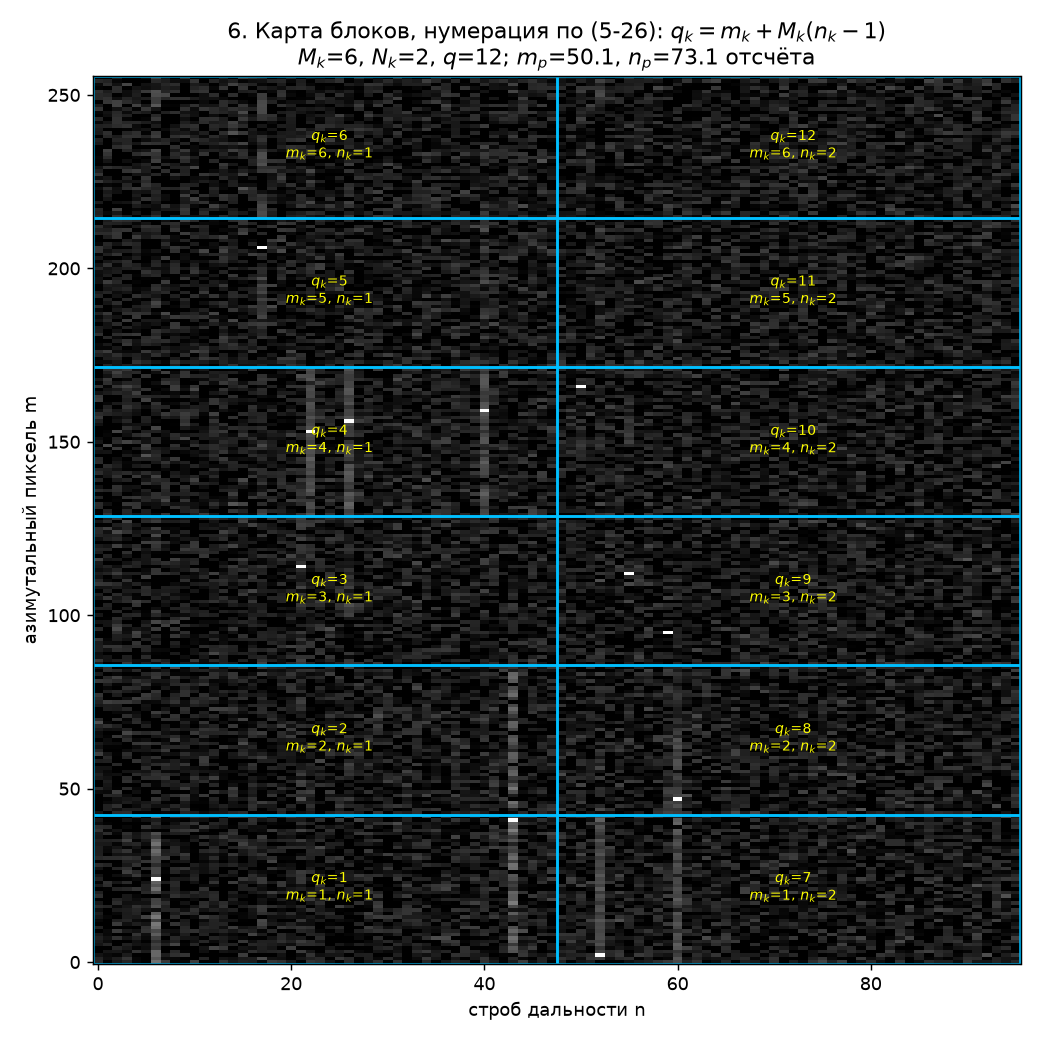
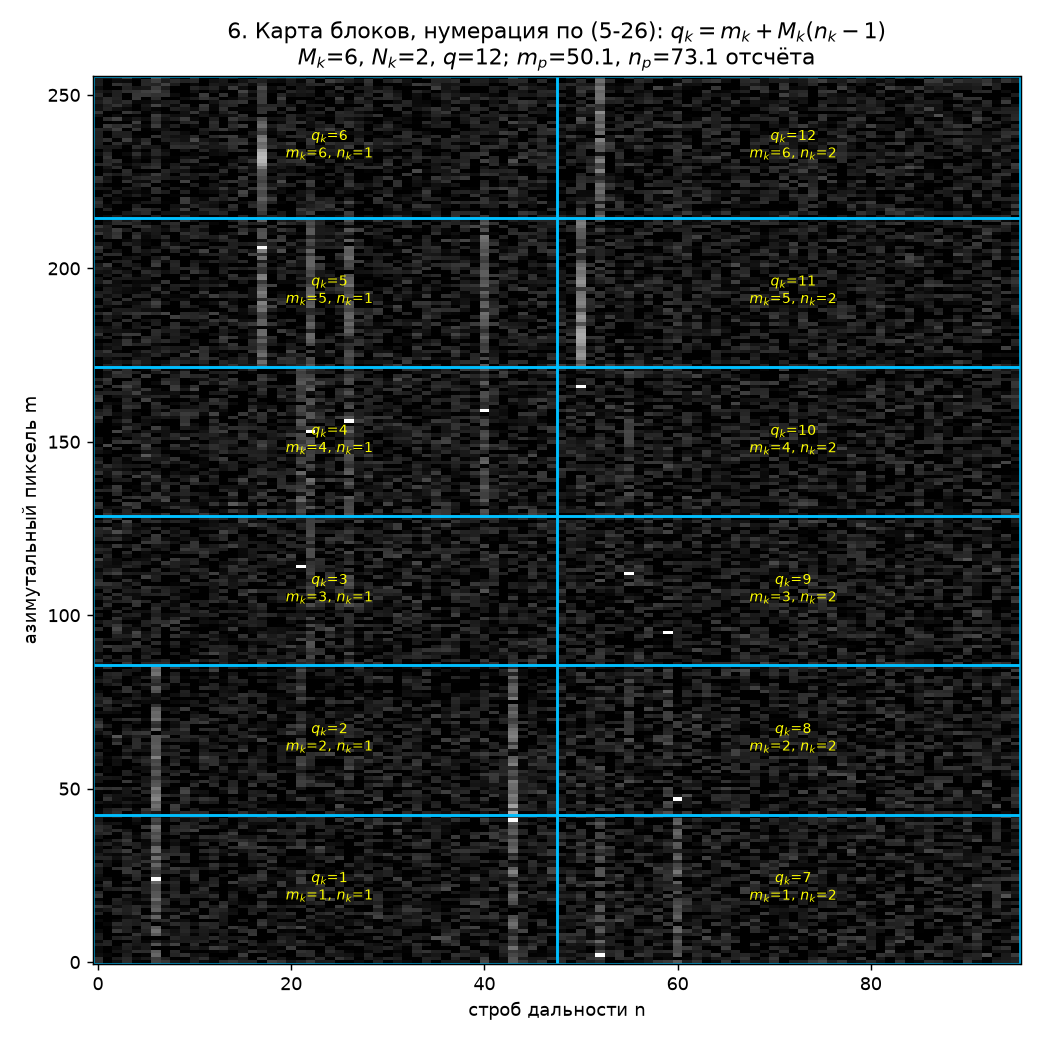
T-186: перехлёст даёт данные, но не голос в целевой функции
Указано владельцем, и он прав: перехлёст — это то, что в итоге
отбрасывается, поправка считается по сердцевине. У меня же энтропия
считалась по ВСЕМУ окну, значит фаза подгонялась и под соседскую землю,
где по (5-27) поправка ДРУГАЯ. Отсюда и вред, который я намерил.

Исправлено в stage_c_iterate: добавлена core_mask, и суммы по m в (5-5),
(5-14) и в первом члене (5-19) идут только по сердцевине. Нули ставятся
ДО преобразования, поэтому лишнего БПФ это не стоит — счётчик по-прежнему
показывает два на итерацию.

S_g (5-4) намеренно остаётся энергией всего окна: она не зависит от phi
по равенству Парсеваля, и на этом стоит вывод (5-13)/(5-19). Частичная
сумма от phi зависела бы, и вывод бы поехал.

Замер, изменчивый стенд, 3 сцены, ПОСЛЕ правки:

  перехлёст  нули   сошлось  остаток  контраст
    0.00     0.00    3.7/12   0.7333   33.74
    0.25     0.25    3.0/12   0.7373   32.45
    0.50     0.50    3.3/12   0.6766   33.63   взято
    0.50     1.00    4.0/12   0.7064   32.41
    1.00     1.00    3.3/12   0.7446   31.81

Вред от перехлёста исчез: до правки 0,5 давал контраст 31.27 против
34.32 у нарезки встык, теперь 33.63 против 33.74 — равны в пределах
0,3 %. Остаток фазы у 0,5 лучше на 8 %. Доли возвращены к 0,5/0,5, но
выигрыш скромный, и за большее его выдавать нельзя.

Предыдущее снижение до 0.25 лечило симптом, а не причину; отменено.

Claude-Session: https://claude.ai/code/session_0131t2cRSN4FHWoUZqJmH65Q

diff --git a/lab/mn_mea/stage_c_iterate.py b/lab/mn_mea/stage_c_iterate.py
@@ -164,7 +164,35 @@ def image_power(backend: Backend, g, floor: float):
     return P, backend.xp.log(P), fraction
 
 
-def entropy(backend: Backend, P, S_g: float) -> tuple[float, float]:
+def core_mask(backend: Backend, M: int, core: tuple[int, int] | None):
+    """Маска строк изображения, по которым считается ЦЕЛЕВАЯ функция.
+
+    Принимает бэкенд, число строк M и границы сердцевины (start, stop);
+    возвращает столбец (M, 1) из единиц внутри сердцевины и нулей вне её,
+    либо None, если сердцевина — всё изображение.
+
+    Зачем. Окно блока (решение №6) шире его плитки: перехлёст нужен, чтобы
+    в данные попали ХВОСТЫ расфокусированных целей сердцевины. Но поправка
+    у блока ОДНА, и подгонять её надо под свою землю, а не под соседскую:
+    у соседа по (5-27) поправка ДРУГАЯ. Значит перехлёст обязан давать
+    данные и не давать голоса в целевой функции.
+
+    Маска и есть этот запрет. Суммы по m в (5-5), (5-14) и в первом члене
+    (5-19) идут только по сердцевине; лишнего БПФ это не стоит — нули
+    ставятся до преобразования.
+
+    S_g (5-4) остаётся энергией ВСЕГО окна: она не зависит от phi по
+    равенству Парсеваля, и на этом стоит вывод (5-13)/(5-19). Частичная
+    сумма от phi зависела бы, и вывод бы поехал.
+    """
+    if core is None:
+        return None
+    mask = backend.xp.zeros((M, 1), dtype=backend.real_dtype)
+    mask[core[0] : core[1]] = 1.0
+    return mask
+
+
+def entropy(backend: Backend, P, S_g: float, mask=None) -> tuple[float, float]:
     """(5-5) ненормированная энтропия и (5-6) нормированная.
 
     Принимает бэкенд, мощность P (5-4 уже посчитана как S_g) и S_g;
@@ -177,11 +205,14 @@ def entropy(backend: Backend, P, S_g: float) -> tuple[float, float]:
     нормировки ПФ не зависит и потому сравнима между блоками, E_g — нет.
     Накопление по M N ячейкам идёт в двойной точности (§3 задания).
     """
-    E_g = -float(backend.sum_real(P * backend.xp.log(P)))
+    weighted = P * backend.xp.log(P)
+    if mask is not None:
+        weighted = weighted * mask
+    E_g = -float(backend.sum_real(weighted))
     return E_g, E_g / S_g + math.log(S_g)
 
 
-def auxiliary_array(backend: Backend, ln_P, g):
+def auxiliary_array(backend: Backend, ln_P, g, mask=None):
     """(5-14), шаг 4 §5.8: G(k,n) = sum_m [1 + ln |g|^2] g(m,n) e^{+j 2 pi k m / M}.
 
     Принимает бэкенд, ln P и изображение g; возвращает массив G(k,n).
@@ -189,6 +220,8 @@ def auxiliary_array(backend: Backend, ln_P, g):
     Стоит ОДНО азимутальное БПФ (ядро «+»). Это второе и последнее БПФ итерации.
     """
     L = 1.0 + ln_P  # вещественный множитель
+    if mask is not None:  # перехлёст в целевую функцию не входит, см. core_mask
+        L = L * mask
     return backend.fft_kernel_plus(L.astype(g.dtype) * g)  # БПФ №2
 
 
@@ -221,7 +254,7 @@ def first_derivative(backend: Backend, W):
     return 2.0 * backend.sum_real(W.imag, axis=1)
 
 
-def second_derivative(backend: Backend, W, h_abs2, ln_P):
+def second_derivative(backend: Backend, W, h_abs2, ln_P, mask=None):
     """(5-19), шаг 7 §5.8: вторая производная энтропии по phi_k.
 
         E''_k = -2 sum_m sum_n (2 + ln|g|^2) |h(k,n)|^2
@@ -240,7 +273,10 @@ def second_derivative(backend: Backend, W, h_abs2, ln_P):
     получается из (5-15) при замене Im^2[g* u] на среднее (1/2)|g|^2 |h|^2,
     то есть (5-19) — это усреднённый, а не точный гессиан.
     """
-    W_n = backend.sum_real(2.0 + ln_P, axis=0)  # длины N
+    summand = 2.0 + ln_P
+    if mask is not None:  # тот же запрет для перехлёста, см. core_mask
+        summand = summand * mask
+    W_n = backend.sum_real(summand, axis=0)  # длины N
     # РАСХОЖДЕНИЕ (5-19): в книге напечатано иначе, см. §8 — коэффициент
     # (2 + ln|g|^2) дан без вывода; он получается из (5-15) при замене
     # Im^2[g* u] на среднее (1/2)|g|^2|h|^2, то есть гессиан усреднённый.
@@ -332,6 +368,7 @@ def iterate_block(
     floor_relative: float = POWER_FLOOR_RELATIVE,
     curvature_policy: str = "freeze",
     step_max: float = STEP_MAX_RAD,
+    core: tuple[int, int] | None = None,
 ) -> BlockIterations:
     """Цикл §5.8 целиком: девять шагов, два азимутальных БПФ размера M на
     итерацию и ничего больше.
@@ -349,6 +386,7 @@ def iterate_block(
     phi_initial_out = backend.to_numpy(phi).copy()
 
     M, N = h.shape
+    mask = core_mask(backend, M, core)  # решение №6: перехлёст без права голоса
     h_abs2 = backend.xp.abs(h) ** 2  # нужен (5-19) на каждой итерации, считаем один раз
     S_g = total_energy(backend, h_abs2, M)  # (5-4)
     floor = power_floor(S_g, M, N, floor_relative)  # решение реализации №1
@@ -368,11 +406,11 @@ def iterate_block(
 
         h_phi, g = image_from_phase(backend, h, phi)  # шаги 1-2, (5-3)
         P, ln_P, floored_fraction = image_power(backend, g, floor)  # шаг 3
-        E_g, S = entropy(backend, P, S_g)  # (5-5),(5-6) — для отчёта
-        G = auxiliary_array(backend, ln_P, g)  # шаг 4, (5-14)
+        E_g, S = entropy(backend, P, S_g, mask)  # (5-5),(5-6) — для отчёта
+        G = auxiliary_array(backend, ln_P, g, mask)  # шаг 4, (5-14)
         W = w_product(backend, G, h_phi)  # шаг 5 — один раз
         E_1 = first_derivative(backend, W)  # шаг 6, (5-13)
-        E_2 = second_derivative(backend, W, h_abs2, ln_P)  # шаг 7, (5-19)
+        E_2 = second_derivative(backend, W, h_abs2, ln_P, mask)  # шаг 7, (5-19)
 
         try:
             phi_new, n_frozen, n_clipped = newton_update(  # шаг 8, (5-8)

diff --git a/lab/mn_mea/stage_a_blocks.py b/lab/mn_mea/stage_a_blocks.py
@@ -54,24 +54,35 @@ class Geometry:
 #: Расфокусированная цель размазана шире своей плитки, и без перехлёста
 #: хвосты теряются при вырезании.
 #:
-#: ВНИМАНИЕ, история этого числа важнее самого числа. Сначала стояло 0,5 —
-#: подобрано замером на стенде, где вносимая ошибка была ОДНА на всю сцену.
-#: Такой стенд цену перехлёста показать не мог в принципе: перехлёст тем и
-#: плох, что захватывает землю, где поправка ДРУГАЯ, а другой поправки там
-#: не было. На изменчивом стенде (validate.experiment_space_variant_run)
-#: 0,5 оказался заметно хуже: контраст 31,27 против 34,32 у книжной нарезки
-#: встык. Взято 0,25 — лучший остаток фазы при контрасте в пределах 1,2 %
-#: от наилучшего.
-BLOCK_OVERLAP_FRACTION = 0.25
+#: ВНИМАНИЕ, история этого числа важнее самого числа, и в ней две ошибки.
+#:
+#: Сначала 0,5 было подобрано на стенде, где вносимая ошибка ОДНА на всю
+#: сцену. Такой стенд цену перехлёста показать не мог в принципе.
+#:
+#: Потом, на изменчивом стенде, 0,5 дал контраст 31,27 против 34,32 у
+#: книжной нарезки встык, и я снизил долю до 0,25. Это лечило симптом.
+#: Настоящая причина была в другом, и на неё указал владелец: перехлёст
+#: обязан давать ДАННЫЕ и не давать голоса в целевой функции. Энтропия же
+#: считалась по всему окну, то есть поправка подгонялась и под соседскую
+#: землю, где по (5-27) поправка ДРУГАЯ. Исправлено в stage_c_iterate:
+#: суммы по m в (5-5), (5-14) и (5-19) идут только по сердцевине,
+#: см. core_mask.
+#:
+#: После этого вред исчез. На трёх изменчивых сценах 0,5 и 0,0 по контрасту
+#: равны в пределах 0,3 % (33,63 против 33,74), а остаток фазы у 0,5 лучше
+#: на 8 % (0,6766 против 0,7333). Взято 0,5 по остатку; выигрыш скромный и
+#: за большее выдавать его нельзя.
+BLOCK_OVERLAP_FRACTION = 0.5
 
 #: Решение реализации №6, часть вторая: сколько нулей дописывать с каждой
 #: стороны, в долях m_b. Свёртка в (5-3) круговая; без запаса содержимое,
 #: уехавшее за верхний край, выходит снизу и накладывается само на себя.
-#: Здесь та же история: на неизменчивом стенде 0,5 поднимал контраст, на
-#: изменчивом — роняет (33,17 против 34,32 при перехлёсте 0). Лишние нули
-#: удлиняют доплеровскую ось, то есть дают вектору фазы вдвое больше
-#: свободы, и она уходит на подгонку под спекл. Взято 0,25.
-BLOCK_ZERO_PAD_FRACTION = 0.25
+#: Доля та же, 0,5, и по той же причине, что перехлёст: после запрета
+#: перехлёсту голосовать в целевой функции вред пропал. Дальше 0,5 не
+#: берём: при 1,0 контраст падает (32,41 против 33,63) — лишние нули
+#: удлиняют доплеровскую ось и дают вектору фазы свободу, которая уходит
+#: на подгонку под спекл. Как объяснение это НЕ проверено, проверен факт.
+BLOCK_ZERO_PAD_FRACTION = 0.5
 
 
 @dataclass(frozen=True)

diff --git a/lab/mn_mea/validate.py b/lab/mn_mea/validate.py
@@ -909,7 +909,7 @@ def experiment_full_run(
         phi_0 = B.initial_phase(eta, eps_reference)
 
         result = C.iterate_block(backend, h_block, phi_0, mu=MU_MEASURED,
-                                 step_max=step_max)
+                                 step_max=step_max, core=core)
         # решение реализации №5: линейную часть выбираем так, чтобы блок встал
         # на своё место на сцене; энтропии это не меняет — сдвиг целый.
         phi_final = (D.remove_image_shift(backend, result.phi) if deshift
@@ -1100,7 +1100,8 @@ def experiment_space_variant_run(
             D_x, D_y, block.x_centre, block.y_centre, x_p, y_p, q, block.q_k
         )
         phi_0 = B.initial_phase(eta, eps_reference)
-        result = C.iterate_block(backend, data.h, phi_0, mu=MU_MEASURED)
+        result = C.iterate_block(backend, data.h, phi_0, mu=MU_MEASURED,
+                                 core=(data.core_start, data.core_stop))
         phi_final = D.remove_image_shift(backend, result.phi)
         tile = D.block_image(backend, data.h, phi_final)
         images[block.q_k] = tile[data.core_start : data.core_stop]

diff --git a/lab/mn_mea/out/report.md b/lab/mn_mea/out/report.md
@@ -63,22 +63,22 @@
 * этап A: полуразмеры блока x_p = 10.03 м, y_p = 43.88 м; в отсчётах (5-22)/(5-23) m_p = 50.1, n_p = 73.1
 * этап A: (5-24)/(5-25)/(5-21) M_k = **6**, N_k = **2**, q = **12**
 * этап B: D_x = -5.2323e-07, D_y = 1.0193e-05
-* сошлось блоков: **6 из 12**; остаточное СКО по блокам: среднее 0.2116 рад, худшее 0.4377 рад
+* сошлось блоков: **4 из 12**; остаточное СКО по блокам: среднее 0.5160 рад, худшее 1.3933 рад
 
 | q_k | m_k | n_k | размер | eta (5-29) | итераций | сошлось | S до | S после | остаток, рад |
 |---:|---:|---:|---|---:|---:|---|---:|---:|---:|
-| 1 | 1 | 1 | 43x48 | -6.114 | 40 | False | 4.7345 | 2.6227 | 0.4377 |
-| 2 | 2 | 1 | 43x48 | -5.634 | 40 | False | 4.7439 | 2.9043 | 0.3649 |
-| 3 | 3 | 1 | 43x48 | -5.154 | 40 | False | 4.6986 | 2.5696 | 0.1763 |
-| 4 | 4 | 1 | 43x48 | -4.675 | 40 | False | 4.6711 | 2.4713 | 0.2924 |
-| 5 | 5 | 1 | 43x48 | -4.195 | 21 | True | 4.7448 | 2.8090 | 0.0816 |
-| 6 | 6 | 1 | 41x48 | -3.715 | 40 | False | 4.4883 | 3.0213 | 0.4240 |
-| 7 | 1 | 2 | 43x48 | -1.785 | 40 | False | 3.7918 | 2.4333 | 0.3166 |
-| 8 | 2 | 2 | 43x48 | -1.306 | 22 | True | 3.6841 | 2.3627 | 0.1015 |
-| 9 | 3 | 2 | 43x48 | -0.826 | 13 | True | 3.5432 | 2.0590 | 0.0543 |
-| 10 | 4 | 2 | 43x48 | -0.346 | 11 | True | 3.7291 | 2.4921 | 0.0633 |
-| 11 | 5 | 2 | 43x48 | 0.133 | 13 | True | 3.6291 | 2.4335 | 0.1285 |
-| 12 | 6 | 2 | 41x48 | 0.613 | 14 | True | 3.6743 | 2.3408 | 0.0985 |
+| 1 | 1 | 1 | 43x48 | -6.114 | 40 | False | 6.1827 | 3.1304 | 0.4354 |
+| 2 | 2 | 1 | 43x48 | -5.634 | 40 | False | 8.8761 | 4.9863 | 1.2619 |
+| 3 | 3 | 1 | 43x48 | -5.154 | 40 | False | 5.4827 | 3.3168 | 0.0842 |
+| 4 | 4 | 1 | 43x48 | -4.675 | 40 | False | 6.3943 | 2.7493 | 0.2851 |
+| 5 | 5 | 1 | 43x48 | -4.195 | 40 | False | 9.1926 | 3.3098 | 0.4904 |
+| 6 | 6 | 1 | 41x48 | -3.715 | 40 | False | 9.4409 | 5.0150 | 1.3933 |
+| 7 | 1 | 2 | 43x48 | -1.785 | 40 | False | 7.3634 | 2.9020 | 0.3682 |
+| 8 | 2 | 2 | 43x48 | -1.306 | 21 | True | 7.1264 | 2.5718 | 0.1175 |
+| 9 | 3 | 2 | 43x48 | -0.826 | 15 | True | 3.9252 | 2.4388 | 0.0620 |
+| 10 | 4 | 2 | 43x48 | -0.346 | 11 | True | 6.9598 | 2.5575 | 0.0780 |
+| 11 | 5 | 2 | 43x48 | 0.133 | 40 | False | 9.4660 | 4.9469 | 1.0721 |
+| 12 | 6 | 2 | 41x48 | 0.613 | 33 | True | 8.8937 | 3.5527 | 0.5436 |
 
 ## 5а. Что дал каждый способ — сводка
 
@@ -90,9 +90,9 @@
 | книга буквально | 2.5/12 | 0.6983 | 1.95 | 5.1751 | 29.42 | 98.9 |
 | + предел шага 1 рад (№2) | 3.5/12 | 0.4837 | 2.18 | 4.4739 | 35.46 | 100.6 |
 | + снятие сдвига (№5) | 3.5/12 | 0.4837 | 0.00 | 4.4739 | 35.46 | 100.6 |
-| + нули 0,5 (№6) | 4.0/12 | 0.4716 | 0.00 | 4.3037 | 36.64 | 100.5 |
-| + перехлёст 0,5 (№6) | 5.0/12 | 0.2671 | 0.00 | 4.2961 | 36.83 | 100.8 |
-| сценное ПФ вместо блочного | 2.0/12 | 0.6400 | 0.24 | 4.7177 | 32.01 | 100.5 |
+| + нули 0,5 (№6) | 6.0/12 | 0.4189 | 0.00 | 4.3300 | 36.42 | 100.5 |
+| + перехлёст 0,5 (№6) ← сейчас | 4.0/12 | 0.5538 | 0.06 | 4.6621 | 33.27 | 101.0 |
+| сценное ПФ вместо блочного | 4.0/12 | 0.4463 | 0.00 | 4.3577 | 36.02 | 100.5 |
 | идеальная сцена — потолок | — | — | — | 4.1635 | 37.57 | 101.2 |
 
 Снятие сдвига (№5) на S, контраст и пик не влияет ВОВСЕ — и не должно: все три меры не чувствительны к циклическому сдвигу, а он ровно то, что снимается. Его вклад виден только в колонке «сдвиг».
@@ -103,8 +103,8 @@
 
 | способ | сошлось | остаток, рад | контраст | пик |
 |---|---|---:|---:|---:|
-| разбиение по книге | 5/12 | 0.5351 | 33.05 | 101.1 |
-| один блок на всю сцену | 1/1 | 0.0994 | 32.34 | 100.8 |
+| разбиение по книге | 4/12 | 0.5172 | 34.64 | 101.2 |
+| один блок на всю сцену | 1/1 | 0.7392 | 41.37 | 133.3 |
 | идеальная сцена — потолок | — | — | 37.57 | 101.2 |
 
 Разброс истины между блоками — до 1.206 рад СКО: вот это один блок исправить и не может. Здесь разбиение наконец ВЫИГРЫВАЕТ, чего на неизменчивом стенде не было и быть не могло.
@@ -116,7 +116,7 @@
 | способ | сошлось | остаток, рад | контраст | пик |
 |---|---|---:|---:|---:|
 | один блок на всю сцену (q = 1) | да | 0.0303 | 37.60 | 101.2 |
-| разбиение по книге | 6/12 | 0.2116 | 36.59 | 100.8 |
+| разбиение по книге | 4/12 | 0.5160 | 34.35 | 101.0 |
 | идеальная сцена — потолок | — | — | 37.57 | 101.2 |
 
 Один блок упирается в потолок. Это НЕ довод против разбиения: это значит, что чинить разбиению на таком стенде нечего, и всякий вывод о качестве этапов A и B по этим числам будет о чём-то другом. См. README, «Чего в этой работе НЕТ», пункт 1.
@@ -133,8 +133,8 @@
 
 | бэкенд | видеокарта | мс на итерацию | M x N |
 |---|---|---:|---|
-| numpy | нет | 3.48 | 512x128 |
-| numpy32 | нет | 2.84 | 512x128 |
+| numpy | нет | 3.16 | 512x128 |
+| numpy32 | нет | 2.36 | 512x128 |
 
 ## 7. Стоимость итерации: счётчиком, а не утверждением (§10.6, §10.7)
 
@@ -171,14 +171,14 @@
 
 | предел шага, рад | сошлось блоков | итераций (ср.) | остаток (ср.), рад | критерий = 2, раз |
 |---:|---|---:|---:|---:|
-| pi (прежнее, НЕВЕРНОЕ) | 12/12 | 12.2 | 0.0949 | 0 |
-| 1.5 | 12/12 | 12.2 | 0.0949 | 0 |
-| 1 ← взято | 12/12 | 12.3 | 0.0949 | 0 |
-| 0.5 | 12/12 | 12.3 | 0.0949 | 0 |
-| 0.3 | 12/12 | 12.6 | 0.0949 | 0 |
-| 0.1 | 12/12 | 20.7 | 0.0949 | 0 |
-| 0.05 | 11/12 | 35.7 | 0.0949 | 0 |
-| 0.02 | 0/12 | 40.0 | 0.2277 | 0 |
+| pi (прежнее, НЕВЕРНОЕ) | 12/12 | 12.4 | 0.0823 | 0 |
+| 1.5 | 12/12 | 12.4 | 0.0823 | 0 |
+| 1 ← взято | 12/12 | 12.4 | 0.0823 | 0 |
+| 0.5 | 12/12 | 12.4 | 0.0823 | 0 |
+| 0.3 | 12/12 | 13.9 | 0.0823 | 0 |
+| 0.1 | 12/12 | 21.7 | 0.0823 | 0 |
+| 0.05 | 11/12 | 35.5 | 0.0811 | 0 |
+| 0.02 | 0/12 | 40.0 | 0.2132 | 0 |
 
 ### Решение №5: снятие сдвига блока перед укладкой
 
@@ -186,8 +186,8 @@
 
 | (5-26) | блоков с целями на своём месте | средний сдвиг | худший | S (среднее) |
 |---|---:|---:|---:|---:|
-| со снятием (рабочая форма) | 75.0 % | 0.50 отсчёта | 2 | 3.9382 |
-| без снятия | 29.2 % | 2.21 отсчёта | 6 | 3.9382 |
+| со снятием (рабочая форма) | 70.8 % | 0.54 отсчёта | 2 | 4.1665 |
+| без снятия | 33.3 % | 2.62 отсчёта | 14 | 4.1665 |
 
 ### Решение №6: окно блока с перехлёстом и нулями
 
@@ -198,13 +198,13 @@
 | перехлёст | нули | длина (5-3) | сошлось | остаток, рад | контраст | пик |
 |---:|---:|---:|---|---:|---:|---:|
 | 0.00 ← как в книге | 0.00 | 43 | 2.7/12 | 0.5449 | 35.11 | 100.7 |
-| 0.00 | 0.50 | 86 | 3.0/12 | 0.5247 | 36.31 | 100.5 |
-| 0.50 | 0.00 | 86 | 2.7/12 | 0.3781 | 35.42 | 100.5 |
-| 0.25 ← взято | 0.25 | 86 | 4.0/12 | 0.3714 | 36.26 | 100.9 |
-| 0.50 | 0.50 | 129 | 4.7/12 | 0.3069 | 36.65 | 100.9 |
-| 1.00 | 1.00 | 215 | 4.7/12 | 0.2505 | 35.63 | 101.0 |
+| 0.00 | 0.50 | 86 | 4.3/12 | 0.5126 | 35.85 | 100.5 |
+| 0.50 | 0.00 | 86 | 3.3/12 | 0.6282 | 33.48 | 101.1 |
+| 0.25 | 0.25 | 86 | 4.0/12 | 0.6173 | 34.23 | 100.9 |
+| 0.50 ← взято | 0.50 | 129 | 3.7/12 | 0.6137 | 33.37 | 101.0 |
+| 1.00 | 1.00 | 215 | 3.0/12 | 0.6309 | 33.33 | 101.2 |
 
-Цена: длина (5-3) выросла с m_b до 2 m_b, значит и оба азимутальных БПФ итерации во столько же раз длиннее. Число БПФ на итерацию не изменилось — см. раздел 7.
+Цена: длина (5-3) выросла с m_b до 3 m_b, значит и оба азимутальных БПФ итерации во столько же раз длиннее. Число БПФ на итерацию не изменилось — см. раздел 7.
 
 ### Решение №3: нормировка ПФ
 
@@ -255,15 +255,15 @@
 
 | (5-29) | eta | max СКО phi(0), рад | нач. расхождение, рад | итераций (ср.) | сошлось блоков |
 |---|---|---:|---:|---:|---|
-| с членом (рабочая форма) | [-6.11, 0.61] | 7.73 | 1.070 | 27.8 | 6/12 |
-| без члена | [-0.72, 0.71] | 0.90 | 0.669 | 16.6 | 11/12 |
+| с членом (рабочая форма) | [-6.11, 0.61] | 7.73 | 1.070 | 33.3 | 4/12 |
+| без члена | [-0.72, 0.71] | 0.90 | 0.669 | 28.7 | 6/12 |
 
 * **длина преобразования (5-3)** — расхождение книги СЕДЬМОЕ, в её собственный список §8 не попавшее. §4.5 и блок-схема §7 называют phi(0) «вектором длины M», где M — размер сцены; §5, открывая этап C, объявляет «далее M, N — размеры блока». Взято второе: длина суммы по k в (5-3) и есть длина преобразования. Чего это стоит:
 
 | способ | длина (5-3) | сошлось | остаток, рад | S (5-6) | контраст | пик | энергии вне блока |
 |---|---|---|---:|---:|---:|---:|---:|
-| блочное ПФ (как в §5) | m_b блока | 6/12 | 0.2116 | 4.3334 | 36.59 | 100.8 | 0.0 % |
-| сценное ПФ | M сцены | 1/12 | 0.6478 | 4.9250 | 29.74 | 100.3 | 6.6 % |
+| блочное ПФ (как в §5) | m_b блока | 4/12 | 0.5160 | 4.5765 | 34.35 | 101.0 | 0.0 % |
+| сценное ПФ | M сцены | 3/12 | 0.4081 | 4.4606 | 35.20 | 100.3 | 3.9 % |
 | идеальная сцена | — | — | 0.0000 | 4.1635 | 37.57 | 101.2 | 0.0 % |
 
 Блочное преобразование круговое ВНУТРИ плитки, поэтому энергия за границу блока не выходит вовсе. У сценного она выходит в занулённую область — на чужую землю, — и попадает в энтропию (5-5) этого блока.
@@ -277,7 +277,7 @@
 | короткий блок (M=16) | 10 | True | 9.170e-03 |
 | один строб дальности (N=1) | 19 | True | 1.020e-01 |
 | узкий по азимуту (M=8) | 9 | True | 7.804e-03 |
-| обрезанный блок q_k=8: 19 бинов против 26 у номинального (M=201, M_k=8) | 15 | True | 7.730e-02 |
+| обрезанный блок q_k=8: 19 бинов против 26 у номинального (M=201, M_k=8) | 15 | True | 4.611e-02 |
 | обрезанный блок q_k=16: 1 бинов против 4 у номинального (M=61, M_k=16) | 1 | False | 0.000e+00 |
 
 * **§3.7 документа**: §3.7 без поперечного ускорения: M_k=6, N_k=1, q=6; разбиение чисто азимутальное: True, номера блоков по (5-26) [1, 2, 3, 4, 5, 6]
@@ -301,7 +301,7 @@
 | 1. Этап C в одиночку, остаточное СКО названо числом | да | 4.599e-02 рад за 13 итераций |
 | 2. То же для кубической, дрожания и смеси, таблицей | да | остатки: quadratic 4.60e-02, cubic 4.60e-02, jitter 2.78e-01, mixture 4.60e-02 |
 | 3. Сцена без точечных целей: сказано замером, что происходит | да | блуждает: (5-9) не выполнено, E''<=0 495 раз, энтропия сдвинулась на -0.0850 |
-| 4. Полный прогон A->B->C->D на синтетике | да | q = 12 блоков (M_k=6, N_k=2), сошлось 6 |
+| 4. Полный прогон A->B->C->D на синтетике | да | q = 12 блоков (M_k=6, N_k=2), сошлось 4 |
 | 5. Два бэкенда сверены, расхождение названо числом | да | numpy/numpy32: 7.717e-08 рад |
 | 6. Стоимость итерации — ровно два азимутальных БПФ, счётчиком | да | замерено [2] на каждой из 13 итераций |
 | 7. W считается один раз за итерацию, тем же счётчиком | да | замерено [1] |
